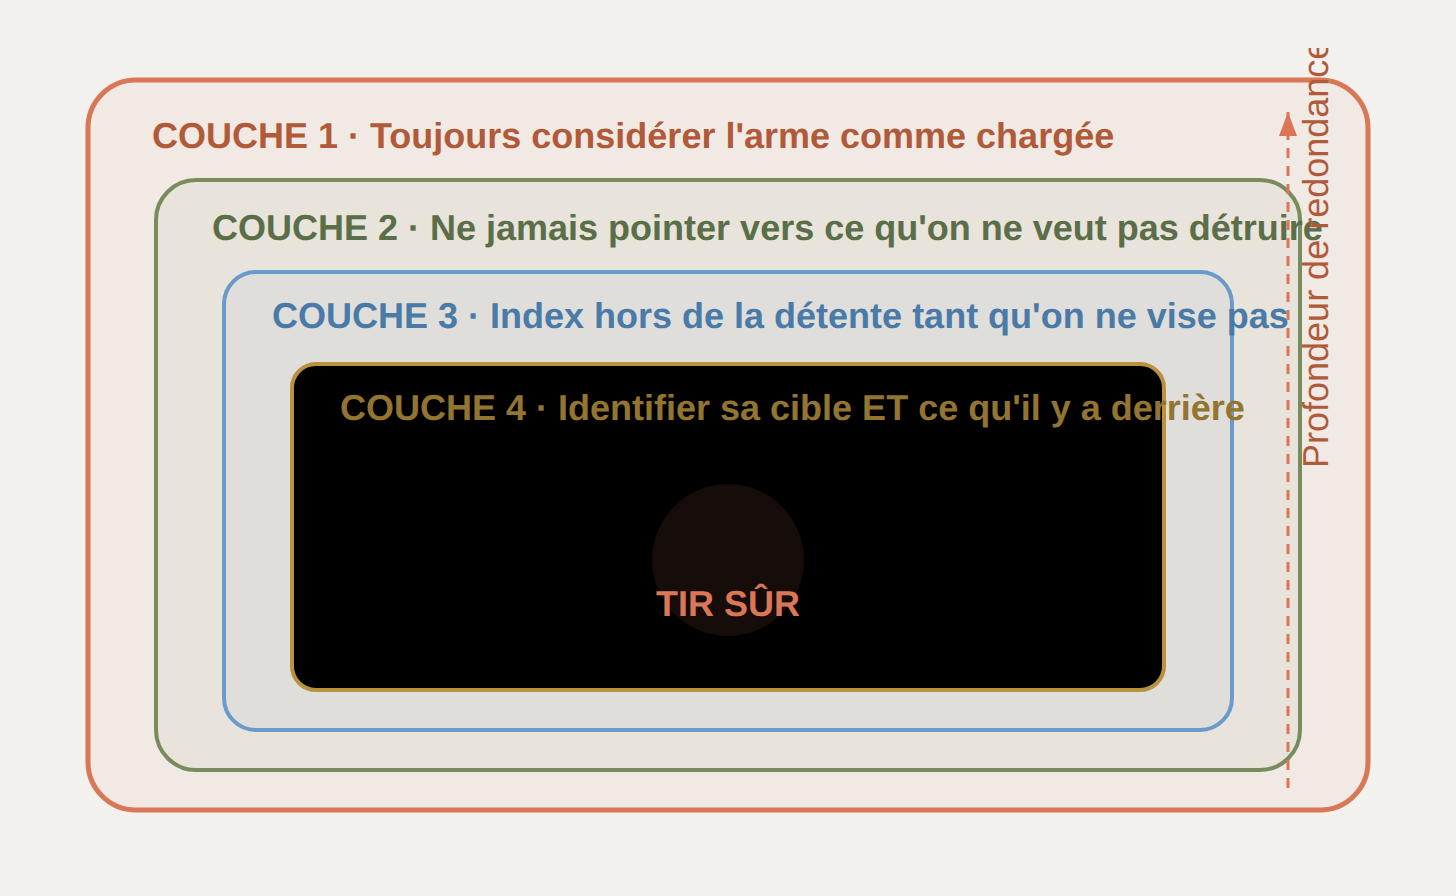
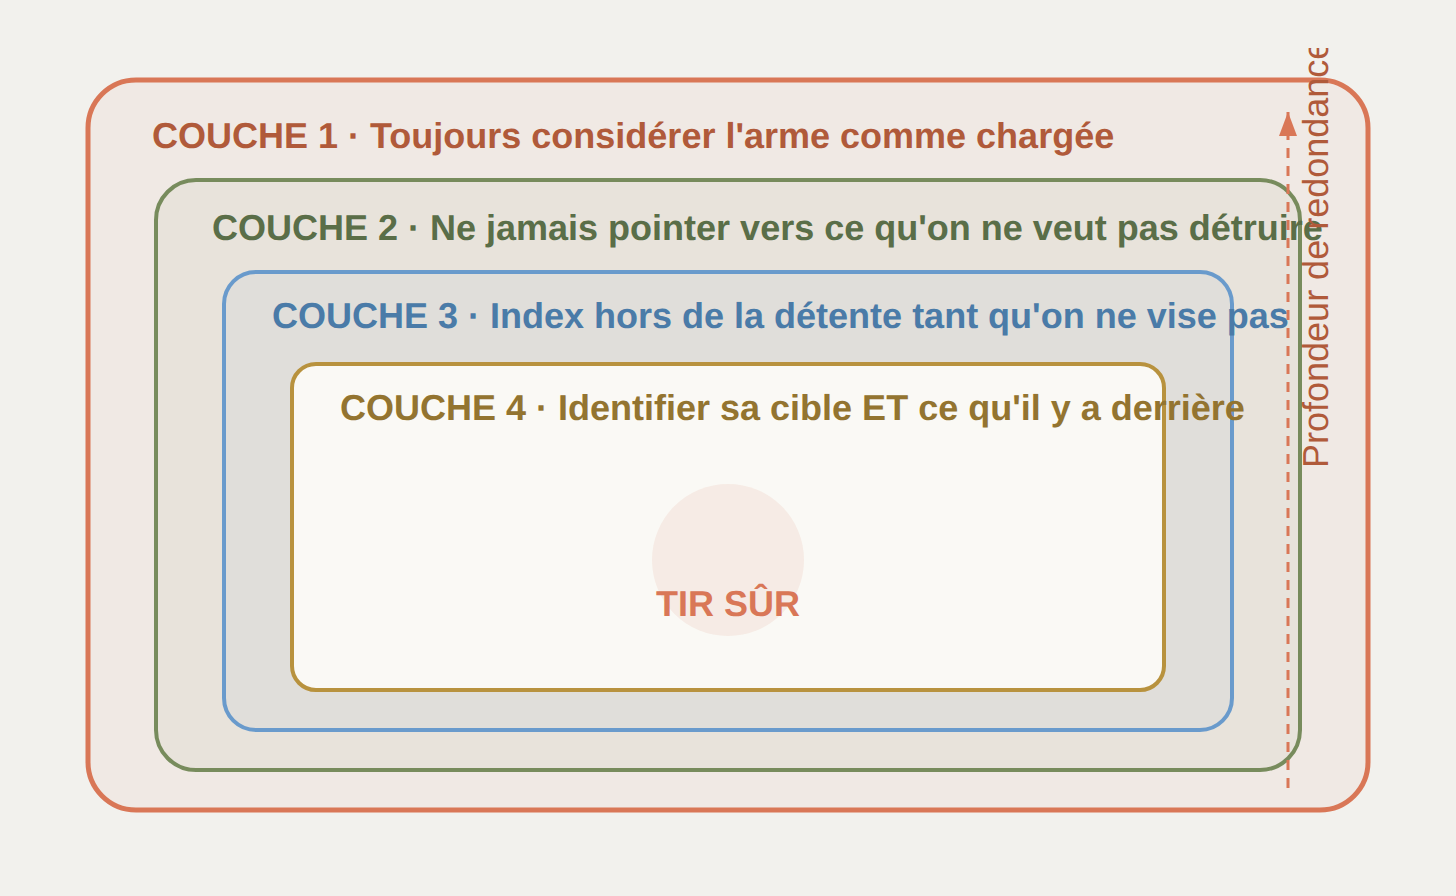
fix: replace CSS var() in SVG fills with hex values (var() unsupported in SVG attributes)

Changed region(s): [[0.1854, 0.4062, 0.8036, 0.7812]]

diff --git a/articles/regles-securite-tir-sportif.html b/articles/regles-securite-tir-sportif.html
@@ -364,7 +364,7 @@
     <text x="112" y="140" font-size="18" font-weight="600" fill="#4a7ba8">COUCHE 3 · Index hors de la détente tant qu'on ne vise pas</text>
 
     <!-- Couche 4 -->
-    <rect x="122" y="158" width="436" height="163" rx="12" fill="var(--card)" stroke="#b8923e" stroke-width="2"/>
+    <rect x="122" y="158" width="436" height="163" rx="12" fill="#faf9f5" stroke="#b8923e" stroke-width="2"/>
     <text x="146" y="186" font-size="18" font-weight="600" fill="#937430">COUCHE 4 · Identifier sa cible ET ce qu'il y a derrière</text>
 
     <!-- Icône centrale -->
@@ -625,28 +625,28 @@
     <line x1="330" y1="54" x2="330" y2="76" stroke="#777" stroke-width="1.5" marker-end="url(#ab)"/>
 
     <!-- Étape 1 -->
-    <rect x="155" y="78" width="350" height="44" rx="10" fill="var(--card)" stroke="#b8923e" stroke-width="1.8"/>
+    <rect x="155" y="78" width="350" height="44" rx="10" fill="#faf9f5" stroke="#b8923e" stroke-width="1.8"/>
     <text x="178" y="105" font-size="18" fill="#937430" font-weight="600">1.</text>
     <text x="198" y="105" font-size="18" fill="#937430">Désapprovisionner entièrement l'arme</text>
 
     <line x1="330" y1="122" x2="330" y2="140" stroke="#777" stroke-width="1.5" marker-end="url(#ab)"/>
 
     <!-- Étape 2 -->
-    <rect x="155" y="142" width="350" height="44" rx="10" fill="var(--card)" stroke="#b8923e" stroke-width="1.8"/>
+    <rect x="155" y="142" width="350" height="44" rx="10" fill="#faf9f5" stroke="#b8923e" stroke-width="1.8"/>
     <text x="178" y="169" font-size="18" fill="#937430" font-weight="600">2.</text>
     <text x="198" y="169" font-size="18" fill="#937430">Démonter ou poser un verrou de pontet</text>
 
     <line x1="330" y1="186" x2="330" y2="204" stroke="#777" stroke-width="1.5" marker-end="url(#ab)"/>
 
     <!-- Étape 3 -->
-    <rect x="155" y="206" width="350" height="44" rx="10" fill="var(--card)" stroke="#b8923e" stroke-width="1.8"/>
+    <rect x="155" y="206" width="350" height="44" rx="10" fill="#faf9f5" stroke="#b8923e" stroke-width="1.8"/>
     <text x="178" y="233" font-size="18" fill="#937430" font-weight="600">3.</text>
     <text x="198" y="233" font-size="18" fill="#937430">Placer dans une mallette ou housse fermée</text>
 
     <line x1="330" y1="250" x2="330" y2="268" stroke="#777" stroke-width="1.5" marker-end="url(#ab)"/>
 
     <!-- Étape 4 -->
-    <rect x="155" y="270" width="350" height="44" rx="10" fill="var(--card)" stroke="#b8923e" stroke-width="1.8"/>
+    <rect x="155" y="270" width="350" height="44" rx="10" fill="#faf9f5" stroke="#b8923e" stroke-width="1.8"/>
     <text x="178" y="297" font-size="18" fill="#937430" font-weight="600">4.</text>
     <text x="198" y="297" font-size="18" fill="#937430">Munitions transportées séparément</text>
 
@@ -717,7 +717,7 @@
     <text x="609" y="88" text-anchor="middle" font-size="18" font-weight="700" fill="#5a6e48">sécurité</text>
 
     <!-- Zone avertissement -->
-    <rect x="100" y="140" width="500" height="100" rx="12" fill="var(--card)" stroke="#d97757" stroke-width="2" stroke-dasharray="7,4"/>
+    <rect x="100" y="140" width="500" height="100" rx="12" fill="#faf9f5" stroke="#d97757" stroke-width="2" stroke-dasharray="7,4"/>
     <text x="350" y="170" text-anchor="middle" font-size="18" font-weight="700" fill="#d97757"> JAMAIS</text>
     <text x="350" y="194" text-anchor="middle" font-size="18" fill="#555">Regarder dans le canon · Quitter le poste avec une munition</text>
     <text x="350" y="214" text-anchor="middle" font-size="18" fill="#555">en chambre · Tenter de réparer derrière la ligne de tir</text>
